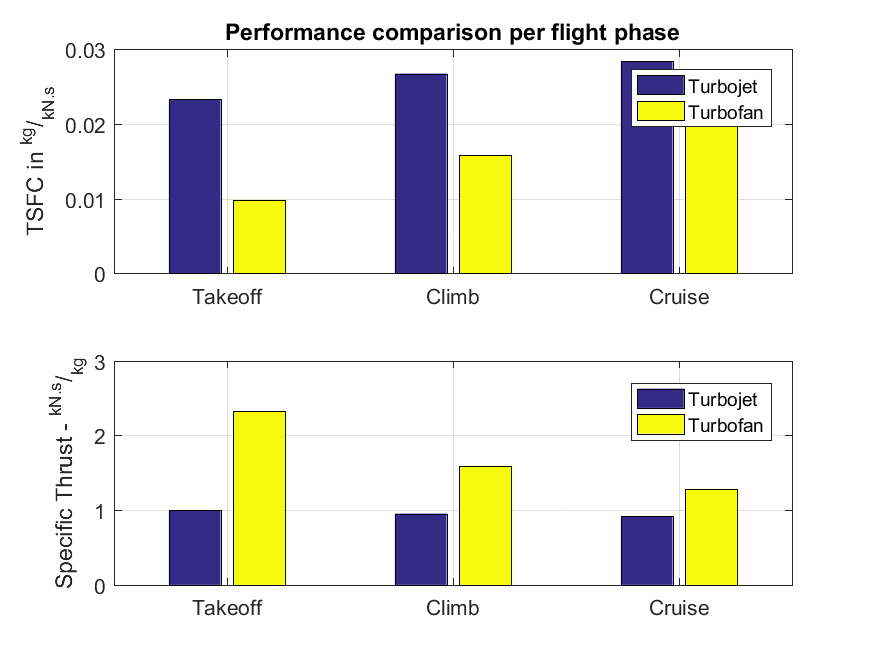
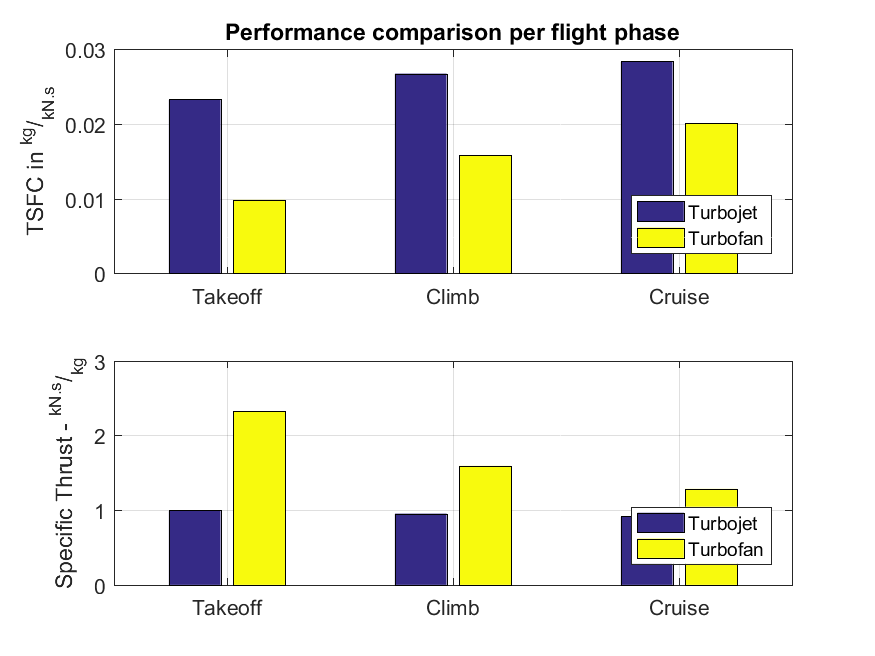
docs: adding figure detailing the model equations

diff --git a/performance_per_flight_phase.m b/performance_per_flight_phase.m
@@ -59,7 +59,7 @@ xlabels = {'Takeoff','Climb','Cruise'};
 set(gca, 'XTick', 1:3, 'XTickLabel', xlabels);
 ylabel('TSFC in ^{kg}/_{kN.s}');
 title('Performance comparison per flight phase'); 
-legend('Turbojet','Turbofan'); 
+legend('Turbojet','Turbofan','Location','SouthEast'); 
 grid on;
 
 subplot(2,1,2); 
@@ -68,7 +68,7 @@ bar([1 2 3],[[turbojet_Takeoff.T_ma turbojet_Climb.T_ma turbojet_Cruise.T_ma]' .
 xlabels = {'Takeoff','Climb','Cruise'};
 set(gca, 'XTick', 1:3, 'XTickLabel', xlabels);
 ylabel('Specific Thrust - ^{kN.s}/_{kg}');
-legend('Turbojet','Turbofan'); 
+legend('Turbojet','Turbofan','Location','SouthEast'); 
 grid on; 
 
 saveas(gcf,'./img/performance_per_flight_phase.png')

diff --git a/README.md b/README.md
@@ -2,6 +2,10 @@
 
 This project models the steady-state behavior of three different types of aircraft engines: [turbofan](https://en.wikipedia.org/wiki/Turbofan), [turbojet](https://en.wikipedia.org/wiki/Turbojet) and [ramjet](https://en.wikipedia.org/wiki/Ramjet). It allows the study of their performance at different operating conditions.
 
+The steady-state behavior is modeled by thermo-dynamic equations which provide, for example, the temperature and pressure observed in each stage of the engine. As the stages may vary depending on the engine type, there are different sequences of transformations for each type of engine. The figure below was copied from the class notes of Prof. [Pedro Lacava](http://www.aer.ita.br/conteudo/professor-pedro-teixeira-lacava) from Instituto Tecnológico de Aeronáutica (ITA).
+
+<img src="./img/model_equations.png" width="500">
+
 ### Params files
 
 The files named *turbofan.m*, *turbojet.m* and *ramjet.m* contain functions which return the parameters of theses engines (there are geometric and physical parameters). 
